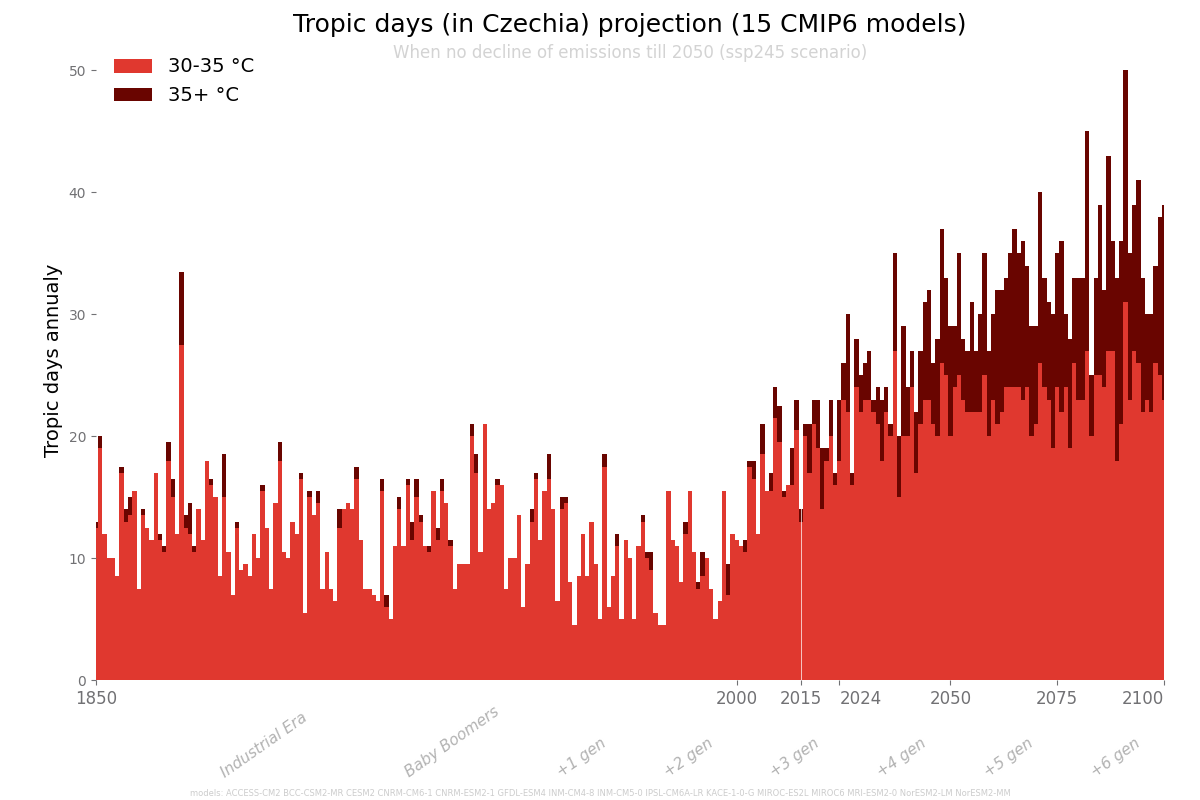
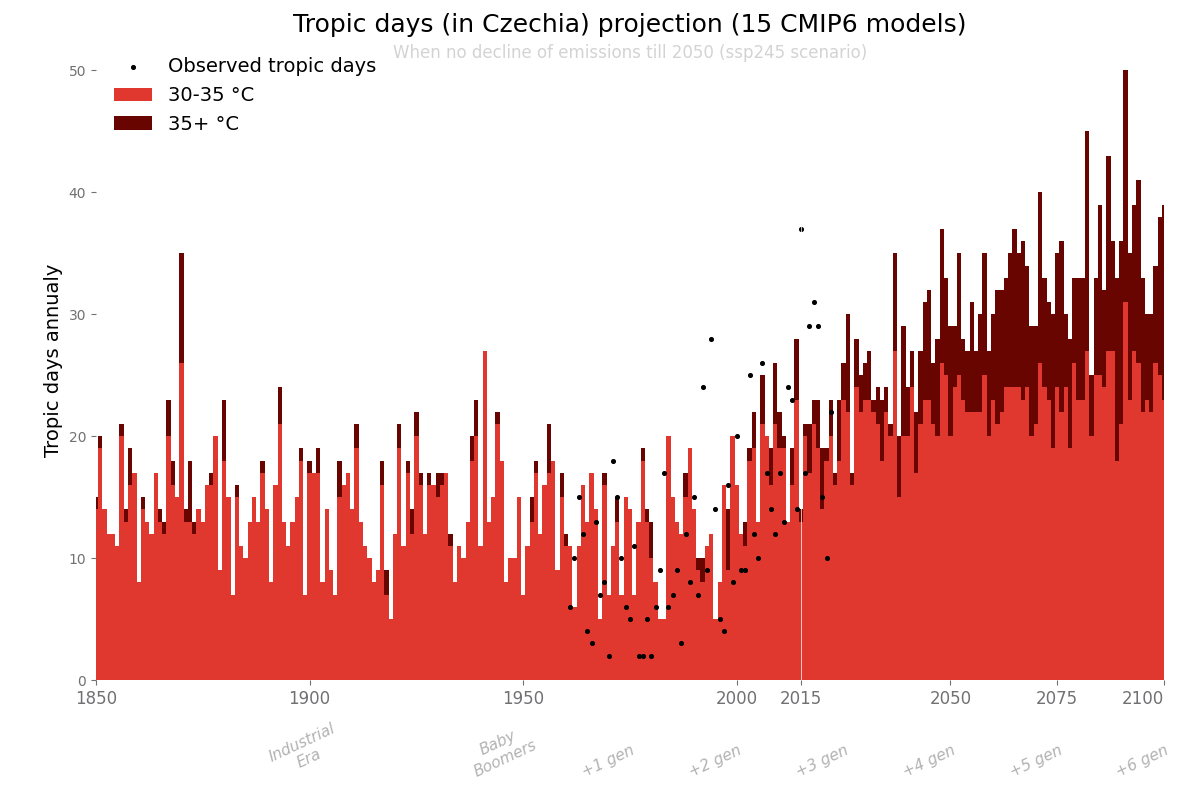
tropic days measurements comparison

diff --git a/ClimateProjections.py b/ClimateProjections.py
@@ -63,8 +63,8 @@ DATADIR = os.path.expanduser(f'~/Downloads/ClimateData/')
 def main():
   #return GlobalTemperature()
   #return maxTemperature(frequency='monthly')
-  return maxTemperature(frequency='daily')
-  #return tropicDaysBuckets(frequency='daily')
+  #return maxTemperature(frequency='daily')
+  return tropicDaysBuckets(frequency='daily')
   #return discovery() # with open('ClimateProjections.py', 'r') as f: exec(f.read())
 
 # VISUALIZATIONS
@@ -256,34 +256,49 @@ def maxTemperature(frequency='daily'):
 
 def tropicDaysBuckets(frequency='daily'):
     variable = 'max_temperature'; global DATADIR; DATADIR = os.path.join(DATADIR, variable+'_'+frequency, '')
+    try:
+        models = pd.read_csv('metadata/models.csv')
+        observed_tropic_by_station=[]
+        for file in glob('data/Czechia/*.xlsx'):
+            observations = pd.read_excel(file, sheet_name='teplota maximální', header=3) #https://www.chmi.cz/historicka-data/pocasi/denni-data/data-ze-stanic-site-RBCN#
+            tropic_count = observations.iloc[:, :2].copy()
+            tropic_count['Tropic'] = (observations.iloc[:, 2:] > 30).sum(axis=1)
+            tropic_count = tropic_count.groupby('rok').sum()
+            tropic_count = tropic_count.rename(columns={'rok': 'Year'})
+            tropic_count = tropic_count.drop(columns=['měsíc'])
+            observed_tropic_by_station.append(tropic_count)
+        observed_tropic_by_station = pd.concat(observed_tropic_by_station)
+        observed_tropic_by_station = observed_tropic_by_station.groupby(observed_tropic_by_station.index)['Tropic'].max()
 
-    models = pd.read_csv('metadata/models.csv')
+        datastore = downloader.DownloaderCopernicus(DATADIR, skip_failing_scenarios=mark_failing_scenarios, mark_failing_scenarios=mark_failing_scenarios)
+        unavailable_experiments = datastore.download(
+          models.values[0:0], ['historical', 'ssp245'], variable='daily_maximum_near_surface_air_temperature', area=md['area']['cz'], forecast_from=forecast_from,
+          frequency=frequency)
+      
+        aggregate(var='tasmax', stacked=True) 
+        data = loadAggregated('_tasmaxbuckets_')
+        data = cleanUpData(data)
+        #data = normalize(data)
 
-    datastore = downloader.DownloaderCopernicus(DATADIR, skip_failing_scenarios=mark_failing_scenarios, mark_failing_scenarios=mark_failing_scenarios)
-    unavailable_experiments = datastore.download(
-      models.values[0:0], ['historical', 'ssp245'], variable='daily_maximum_near_surface_air_temperature', area=md['area']['cz'], forecast_from=forecast_from,
-      frequency=frequency)
-  
-    aggregate(var='tasmax', stacked=True) 
-    data = loadAggregated('_tasmaxbuckets_')
-    data = cleanUpData(data)
-    data = normalize(data)
+        data = models_with_all_experiments(data, dont_count_historical=True)
 
-    data = models_with_all_experiments(data, dont_count_historical=True)
+        model_count = len(set(data.model.values.flat))
+        models = data.model.values.flat
+        data = data.median(dim='model').max(dim='experiment')      
 
-    model_count = len(set(data.model.values.flat))
-    models = data.model.values.flat
-    data = data.median(dim='model').max(dim='experiment')      
-
-    chart = visualizations.Charter(variable=variable, models=models,
-        title=f'Tropic days (in Czechia) projection ({model_count} CMIP6 models)', 
-        subtitle="When no decline of emissions till 2050 (ssp245 scenario)", 
-        ylabel='Tropic days annualy',
-        marker=forecast_from)
-    
-    chart.stack(data)
-    chart.show()
-    chart.save()
+        chart = visualizations.Charter(variable=variable, models=models,
+            title=f'Tropic days (in Czechia) projection ({model_count} CMIP6 models)', 
+            subtitle="When no decline of emissions till 2050 (ssp245 scenario)", 
+            ylabel='Tropic days annualy',
+            marker=forecast_from)
+        
+        
+        chart.stack(data)
+        chart.scatter(observed_tropic_by_station, label='Observed tropic days') # expects year as index
+        chart.show()
+        chart.save()
+    except OSError as e: print(f"{RED}Error: {type(e).__name__}: {e}{RESET}") 
+    except Exception as e: print(f"{RED}Error: {type(e).__name__}: {e}{RESET}"); traceback.print_exc()
 
 def discovery():
   variable = 'discovery'; global DATADIR; DATADIR = DATADIR + variable + '/'
